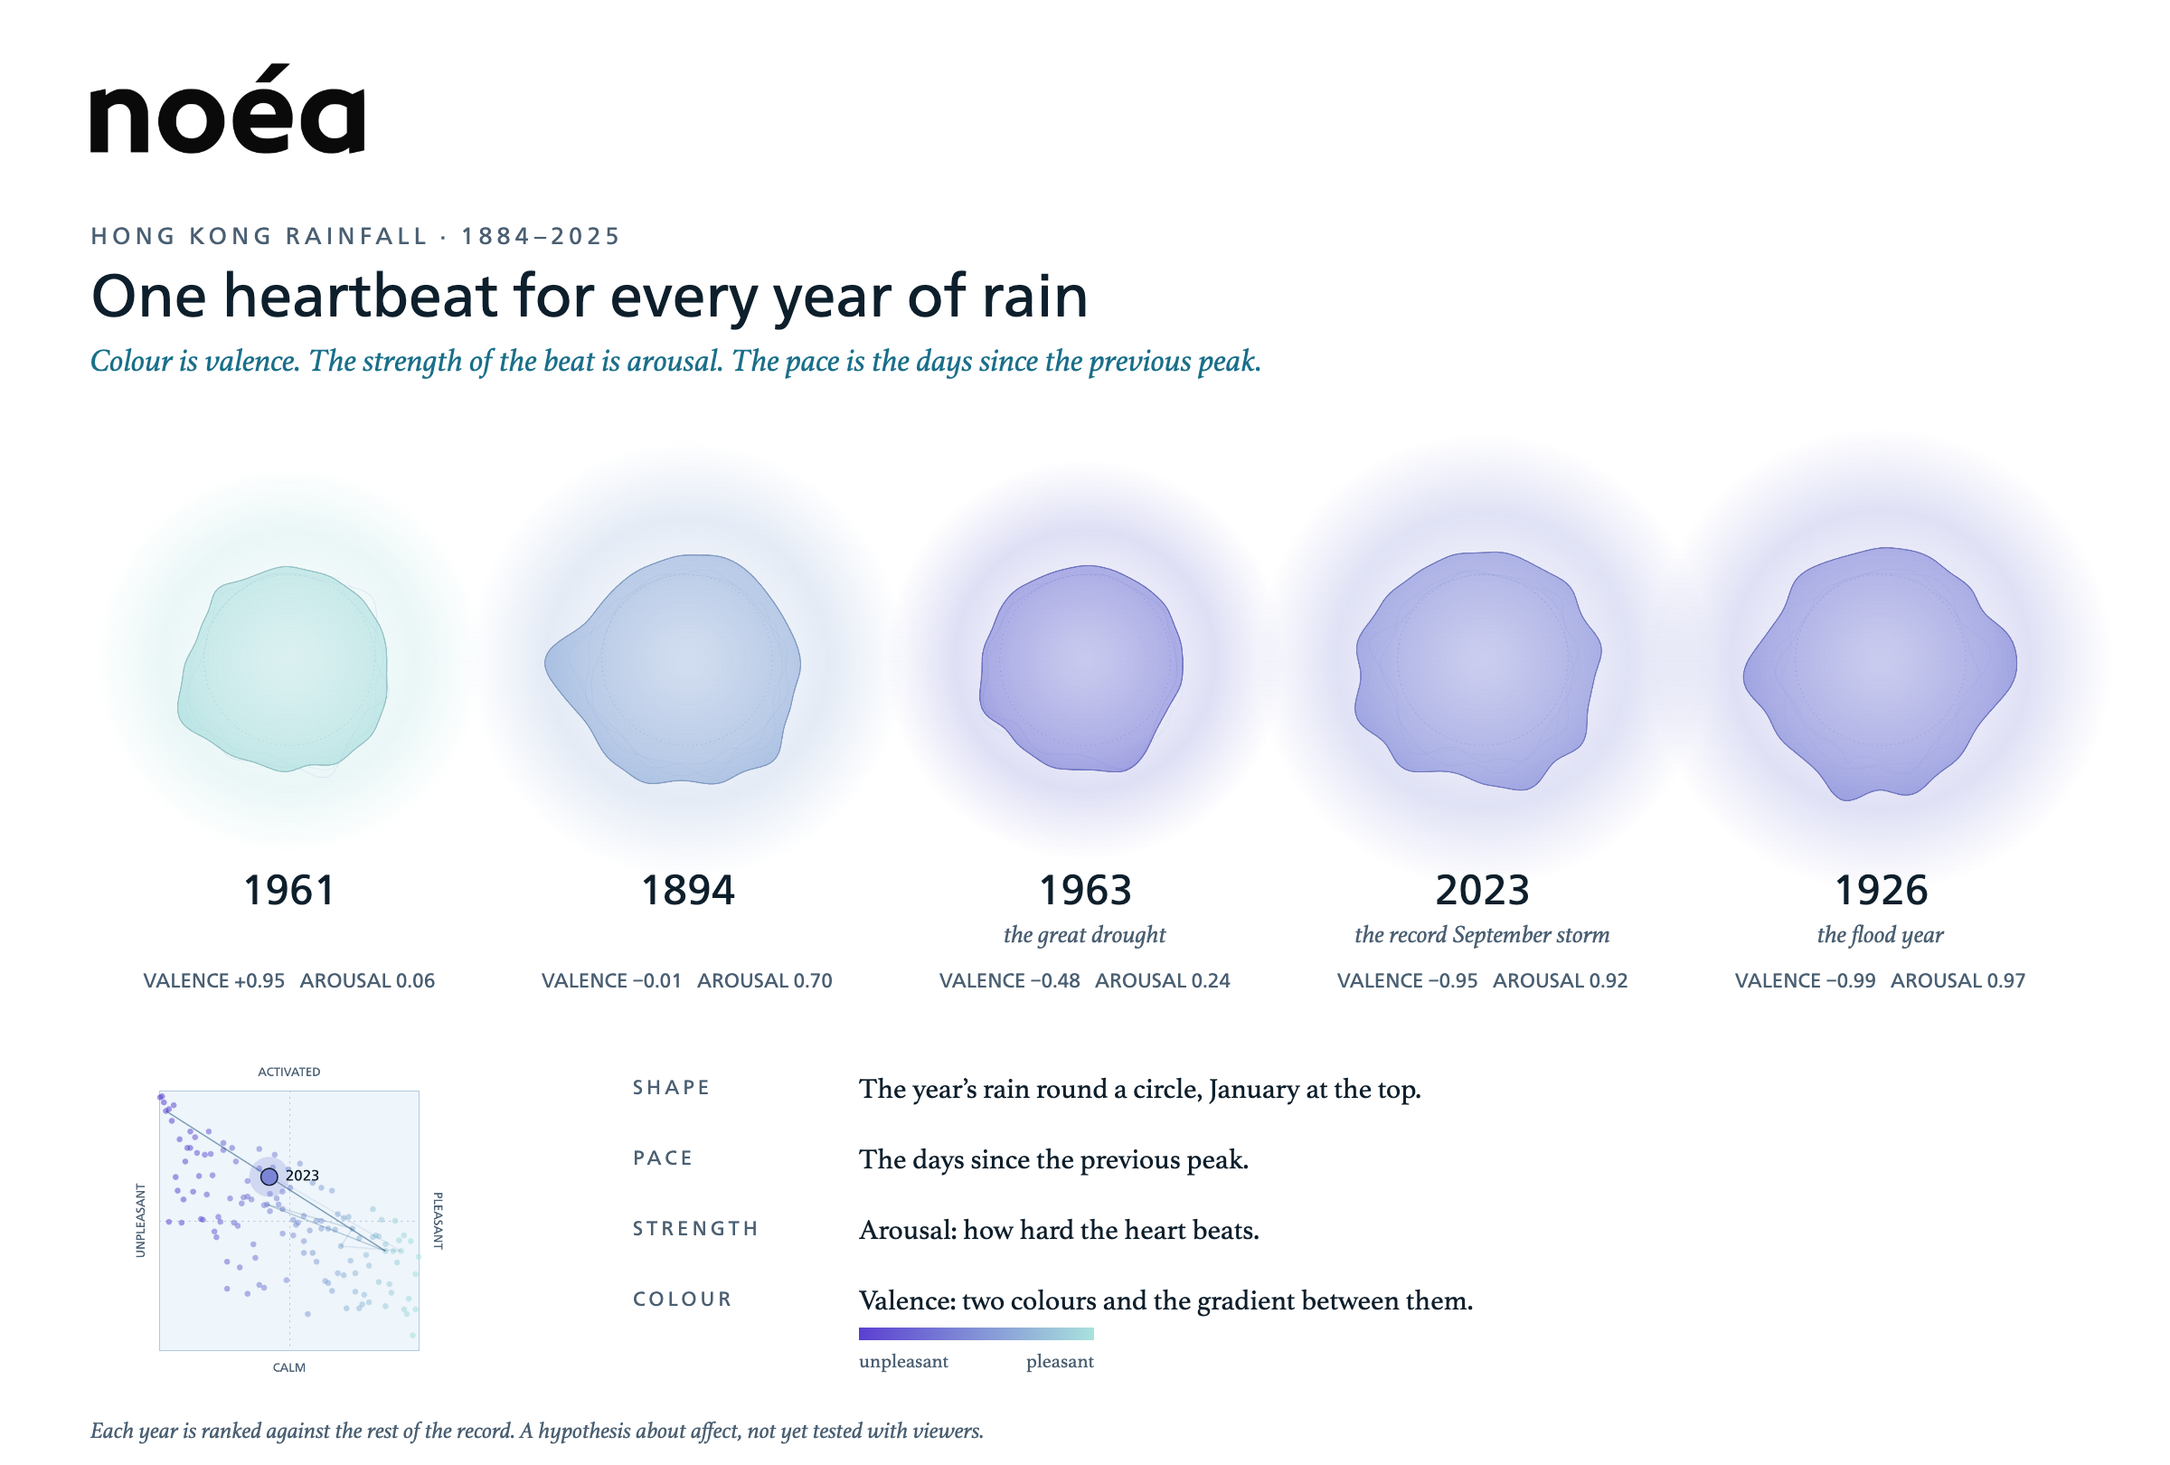
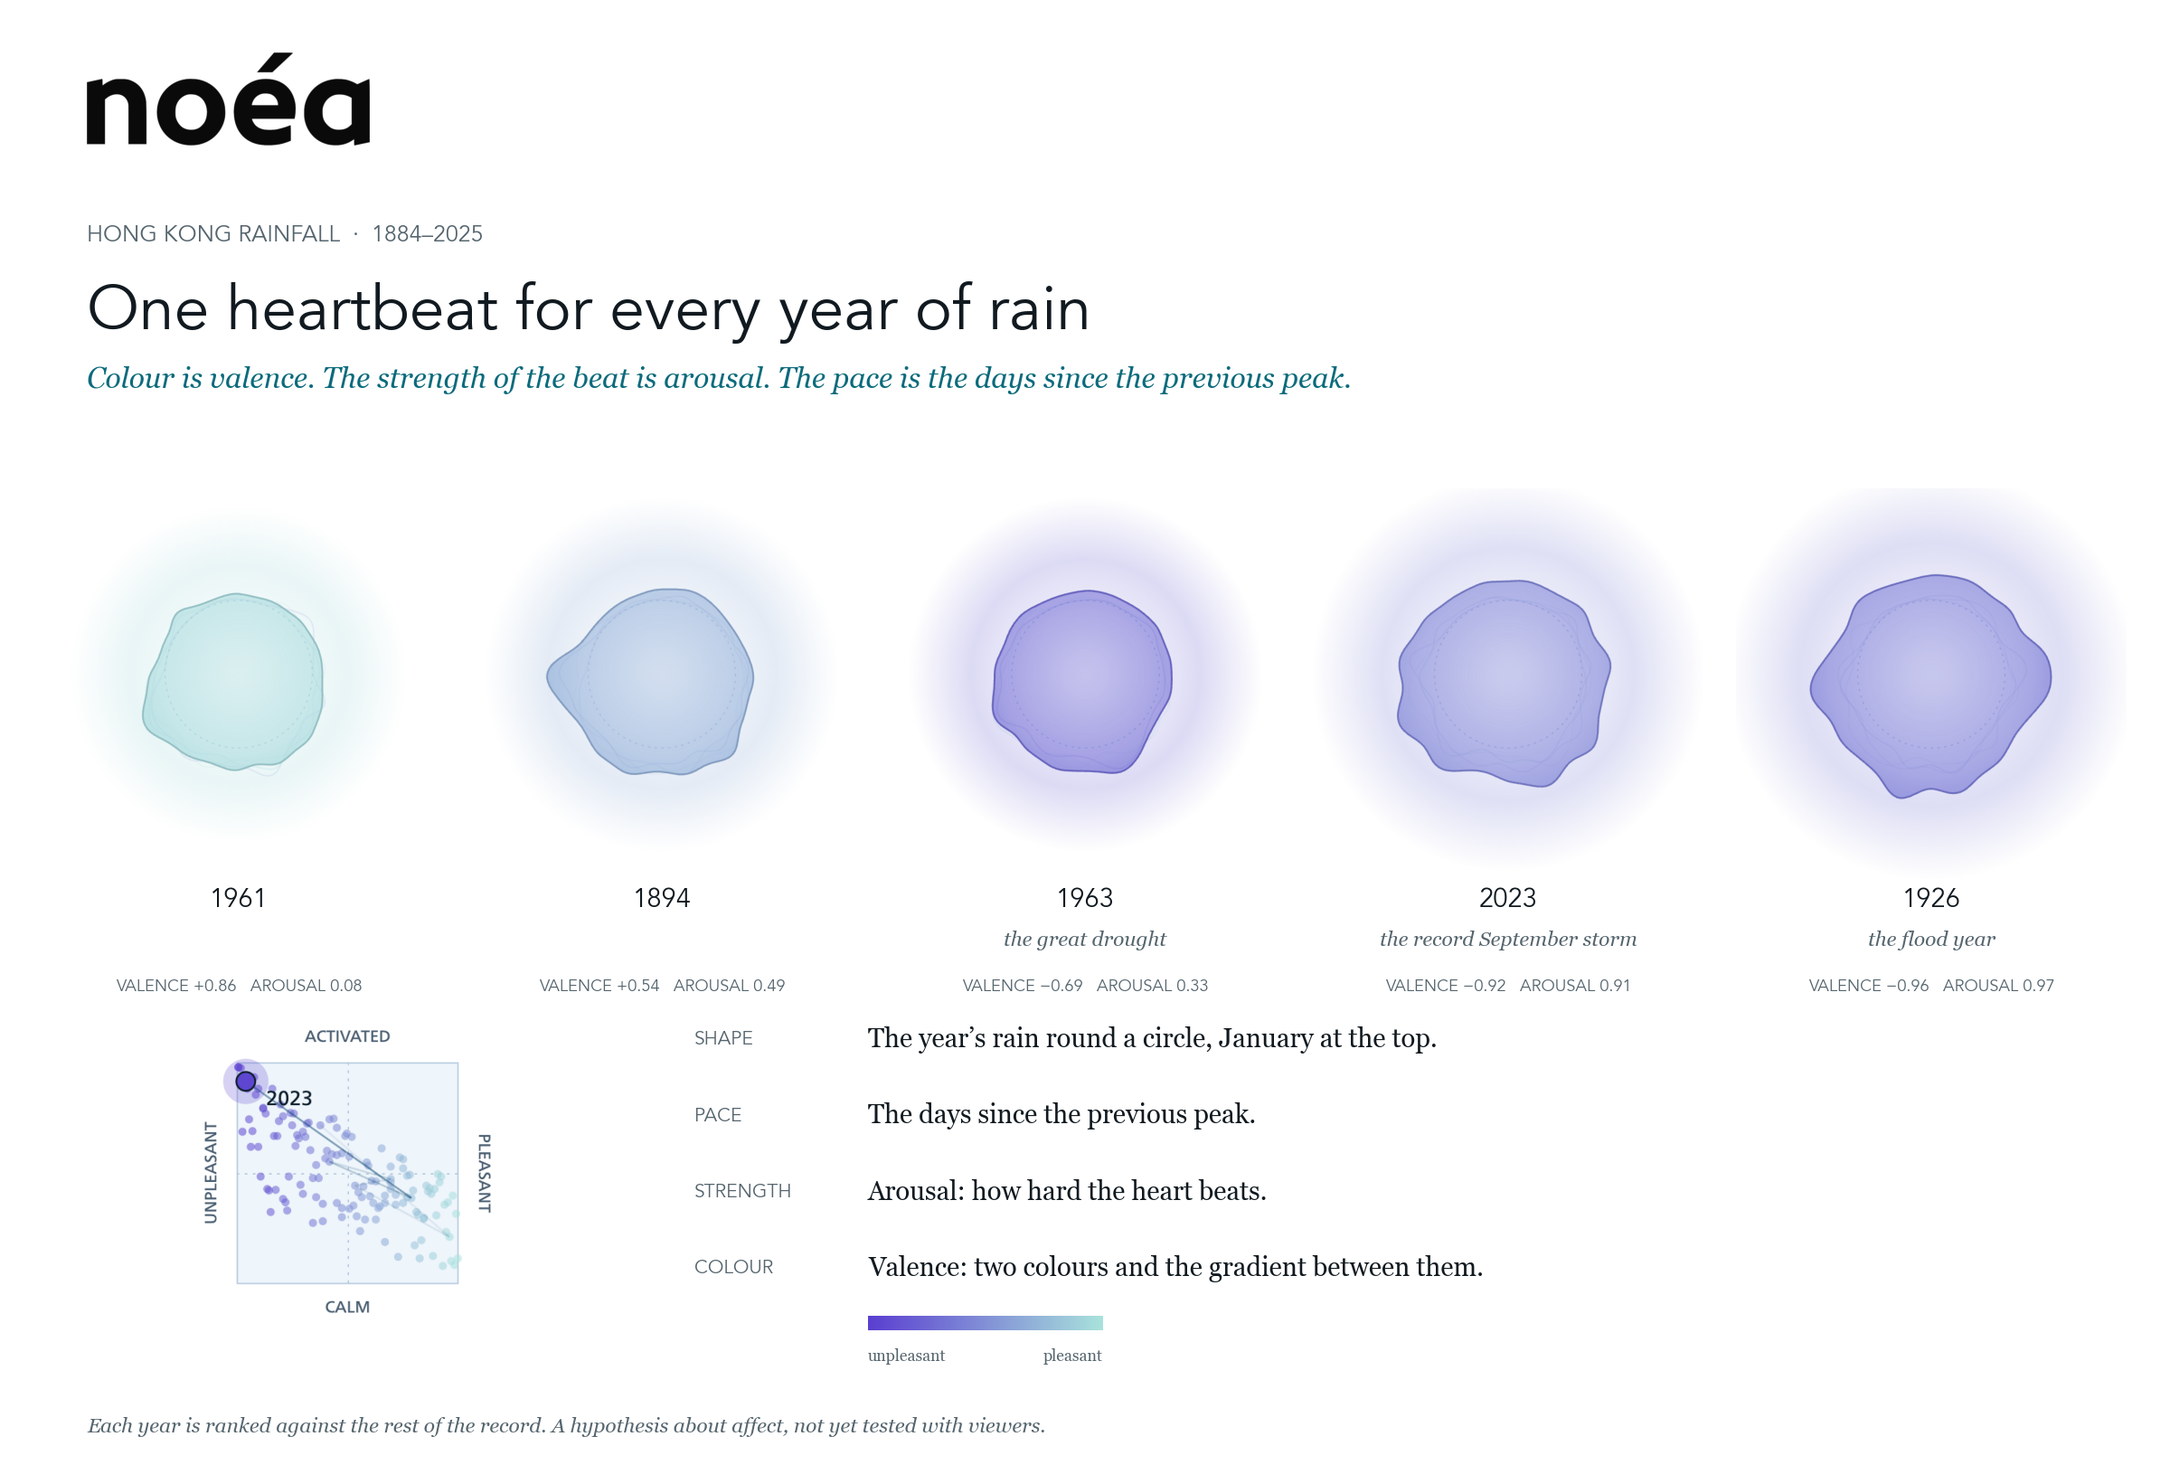
Issue 7 in the documentation lightbox; new figures and the cover study
Adds Issue 07, Technical Guide: Phase II (cover and PDF on the Webflow CDN) to the
lightbox and relates it to the three chapters; the credits line now mentions the
moving-window models. Adds the refreshed Hong Kong poster, map and blobs (current values),
the event-rank charts for the two models, the general HWI pipeline diagrams, the cover
studies, and the equations and code as text. Figures built from OCEau data and the draft
email are left out until the permission is written.

diff --git a/docs/explore/site.js b/docs/explore/site.js
@@ -5,9 +5,9 @@ window.NOEA_SITE = true;
 (function () {
   const CHAPTERS = [
     { key: "intro", label: "Introduction" },
-    { key: "atmosphere", file: "rainfall.json", label: "Hong Kong", kicker: "Climate Pulse · Atmosphere", name: "Hong Kong rainfall", issues: [3, 4] },
-    { key: "rivers", file: "river.json", label: "The Rhine and the Alps", kicker: "Climate Pulse · Rivers", name: "Rhine and alpine rivers", issues: [6] },
-    { key: "laire", file: "hwi.json", label: "L'Aire, Geneva", kicker: "Human-Water Interface (HWI)", name: "L'Aire, Geneva", issues: [4, 5],
+    { key: "atmosphere", file: "rainfall.json", label: "Hong Kong", kicker: "Climate Pulse · Atmosphere", name: "Hong Kong rainfall", issues: [3, 4, 7] },
+    { key: "rivers", file: "river.json", label: "The Rhine and the Alps", kicker: "Climate Pulse · Rivers", name: "Rhine and alpine rivers", issues: [6, 7] },
+    { key: "laire", file: "hwi.json", label: "L'Aire, Geneva", kicker: "Human-Water Interface (HWI)", name: "L'Aire, Geneva", issues: [4, 5, 7],
       missing: "L'Aire, Geneva uses validated data from the Office cantonal de l'eau (OCEau). It will appear here once it is released." },
   ];
   const CDN = "https://cdn.prod.website-files.com/63750b34ad85c65beae727c6/";
@@ -24,6 +24,8 @@ window.NOEA_SITE = true;
       text: "The XR prototype of Noéa, its debut at the Zurich AI Festival, the WMO collaboration, and the ethics of empathy and technology." },
     { n: 6, title: "River Anatomy", cover: "69eb3cda90e18b66b3b7be96_issue%206.jpg", pdf: "69eb3ce1dca9f12ea6ba2847_Issue%206.pdf",
       text: "Built around the Rhine: 70 years of discharge records, a four-station profile, and four frameworks that read a river as a continuous body." },
+    { n: 7, title: "Technical Guide, Phase II", cover: "6aeaa096771e6da2f6dbf636_issue%207-p-800.jpg", pdf: "6aea9ef654d0d7b1aabfbdca_issue%207.pdf",
+      text: "The code behind Noéa: its two layers, the yearly and moving-window models of Climate Pulse, and the Human-Water Interface pipeline, with what works and what is still open." },
   ];
   const LINKS = [
     ["Repository", "https://github.com/qintheory/noea", "The code behind the three prototypes, and the technical introduction."],
@@ -128,7 +130,7 @@ window.NOEA_SITE = true;
     } else body.innerHTML = '<div class="panel"><ul class="linklist">' + LINKS.map(l => '<li><a href="' + l[1] + '" target="_blank" rel="noopener">' + esc(l[0]) + ' ↗</a><span>' + esc(l[2]) + '</span></li>').join("") +
       '<li><a href="introduction.html" target="_blank" rel="noopener">Technical introduction ↗</a><span>The deck that explains the method, in its own page (arrow keys to move, N for notes).</span></li></ul>' +
       '<p class="credits">Data: Hong Kong Observatory (rainfall, 1884–2025); Global Runoff Data Centre and the Swiss Federal Office for the Environment (rivers); Office cantonal de l\'eau, Geneva (the L\'Aire gauges). ' +
-      'Method: an unsupervised model (PCA reconstruction error) learns what a typical year or day looks like for each record and scores how unusual each one is. No part of this has been tested with viewers yet.</p></div>';
+      'Method: an unsupervised model (PCA) learns what a typical year, stretch or day looks like for each record and scores how unusual each one is; Climate Pulse also reads each record in moving windows. No part of this has been tested with viewers yet.</p></div>';
   }
   function renderVideos(play) {
     if (!vid) vid = (VIDEOS.find(v => v.chapters.includes(current.key)) || VIDEOS[0]).id;

diff --git a/docs/source/explorers/site.js b/docs/source/explorers/site.js
@@ -5,9 +5,9 @@ window.NOEA_SITE = true;
 (function () {
   const CHAPTERS = [
     { key: "intro", label: "Introduction" },
-    { key: "atmosphere", file: "rainfall.json", label: "Hong Kong", kicker: "Climate Pulse · Atmosphere", name: "Hong Kong rainfall", issues: [3, 4] },
-    { key: "rivers", file: "river.json", label: "The Rhine and the Alps", kicker: "Climate Pulse · Rivers", name: "Rhine and alpine rivers", issues: [6] },
-    { key: "laire", file: "hwi.json", label: "L'Aire, Geneva", kicker: "Human-Water Interface (HWI)", name: "L'Aire, Geneva", issues: [4, 5],
+    { key: "atmosphere", file: "rainfall.json", label: "Hong Kong", kicker: "Climate Pulse · Atmosphere", name: "Hong Kong rainfall", issues: [3, 4, 7] },
+    { key: "rivers", file: "river.json", label: "The Rhine and the Alps", kicker: "Climate Pulse · Rivers", name: "Rhine and alpine rivers", issues: [6, 7] },
+    { key: "laire", file: "hwi.json", label: "L'Aire, Geneva", kicker: "Human-Water Interface (HWI)", name: "L'Aire, Geneva", issues: [4, 5, 7],
       missing: "L'Aire, Geneva uses validated data from the Office cantonal de l'eau (OCEau). It will appear here once it is released." },
   ];
   const CDN = "https://cdn.prod.website-files.com/63750b34ad85c65beae727c6/";
@@ -24,6 +24,8 @@ window.NOEA_SITE = true;
       text: "The XR prototype of Noéa, its debut at the Zurich AI Festival, the WMO collaboration, and the ethics of empathy and technology." },
     { n: 6, title: "River Anatomy", cover: "69eb3cda90e18b66b3b7be96_issue%206.jpg", pdf: "69eb3ce1dca9f12ea6ba2847_Issue%206.pdf",
       text: "Built around the Rhine: 70 years of discharge records, a four-station profile, and four frameworks that read a river as a continuous body." },
+    { n: 7, title: "Technical Guide, Phase II", cover: "6aeaa096771e6da2f6dbf636_issue%207-p-800.jpg", pdf: "6aea9ef654d0d7b1aabfbdca_issue%207.pdf",
+      text: "The code behind Noéa: its two layers, the yearly and moving-window models of Climate Pulse, and the Human-Water Interface pipeline, with what works and what is still open." },
   ];
   const LINKS = [
     ["Repository", "https://github.com/qintheory/noea", "The code behind the three prototypes, and the technical introduction."],
@@ -128,7 +130,7 @@ window.NOEA_SITE = true;
     } else body.innerHTML = '<div class="panel"><ul class="linklist">' + LINKS.map(l => '<li><a href="' + l[1] + '" target="_blank" rel="noopener">' + esc(l[0]) + ' ↗</a><span>' + esc(l[2]) + '</span></li>').join("") +
       '<li><a href="introduction.html" target="_blank" rel="noopener">Technical introduction ↗</a><span>The deck that explains the method, in its own page (arrow keys to move, N for notes).</span></li></ul>' +
       '<p class="credits">Data: Hong Kong Observatory (rainfall, 1884–2025); Global Runoff Data Centre and the Swiss Federal Office for the Environment (rivers); Office cantonal de l\'eau, Geneva (the L\'Aire gauges). ' +
-      'Method: an unsupervised model (PCA reconstruction error) learns what a typical year or day looks like for each record and scores how unusual each one is. No part of this has been tested with viewers yet.</p></div>';
+      'Method: an unsupervised model (PCA) learns what a typical year, stretch or day looks like for each record and scores how unusual each one is; Climate Pulse also reads each record in moving windows. No part of this has been tested with viewers yet.</p></div>';
   }
   function renderVideos(play) {
     if (!vid) vid = (VIDEOS.find(v => v.chapters.includes(current.key)) || VIDEOS[0]).id;

diff --git a/docs/cover-code-and-equations.md b/docs/cover-code-and-equations.md
@@ -1,0 +1,179 @@
+# The equations and the code behind the models
+
+Text only, for the page. The code is quoted from the repository (file named above each block); lines marked `# ...` were trimmed. The equations are the same operations written as maths.
+
+---
+
+## 1. Equations
+
+### Yearly model (Hong Kong rainfall)
+
+| Step | Equation |
+|---|---|
+| Standardise the six yearly features | z = (x − μ) / σ |
+| Covariance and its eigenvectors (PCA) | C = ZᵀZ / n,   C vⱼ = λⱼ vⱼ |
+| The same by singular values | Z = U Σ Vᵀ,   λⱼ = Σⱼ² / n |
+| Rebuild each year from k = 2 components | ẑ = Z Vₖ Vₖᵀ |
+| Reconstruction error (the anomaly) | e = ‖ z − ẑ ‖² = Σᵢ (zᵢ − ẑᵢ)² |
+| Rescale to 0–1 across the fitted years | s = (e − e_min) / (e_max − e_min) |
+| Return period of the yearly peak (Gumbel) | P(R′ ≥ r) = 1 − exp( −exp( −(r − μ) / β ) ),   T = 1 / P |
+
+### Moving-window model
+
+| Step | Equation |
+|---|---|
+| Rank a measure among windows ending at the same time of year (±15 days) | pᵢ = ( rank(xᵢ) − ½ ) / n |
+| Turn the rank into a bounded score | uᵢ = Φ⁻¹(pᵢ),  clipped to [−3.5, 3.5] |
+| Centre the scores | C = U − ū |
+| Components that keep 80% of the variance | k = min { k : Σⱼ≤ₖ λⱼ / Σⱼ λⱼ ≥ 0.80 } |
+| Coordinates in the kept components | t = C Vₖ |
+| Distance inside the kept components (Mahalanobis) | d² = Σⱼ≤ₖ tⱼ² / λⱼ |
+| Distance off the components (reconstruction) | e = ‖ C − t Vₖᵀ ‖² |
+| Rank of a window among all N windows | r = ( rank(d²) − ½ ) / N |
+| Rarity, "one window in …" | 1 / (1 − r),   u = −log₁₀(1 − r) |
+| Score rule at 30 days | score = max( rank(d²), rank(e) ) |
+| Score rule at 365 days | score = rank(d²) |
+
+### Checking against documented events
+
+| Step | Equation |
+|---|---|
+| How an event ranks among spans of the same length | percentile = share of other spans whose highest score is below the event's highest score |
+| Chance | 0.5 |
+
+### Valence and arousal (Hong Kong)
+
+| Step | Equation |
+|---|---|
+| Two factors from a varimax-rotated PCA | storminess, wetness |
+| Departure from a normal year | departure = √( max(storminess, 0)² + wetness² ) |
+| Percentile rank among the n fitted years | pct(v) = ( rank(v) − ½ ) / n |
+| Arousal | A = ½ ( pct(storminess) + pct(anomaly) ) |
+| Valence | V = 1 − 2 · pct( ½ ( pct(departure) + pct(anomaly) ) ) |
+
+### Human-Water Interface (L'Aire)
+
+| Step | Equation |
+|---|---|
+| Seasonal norm for a calendar day | m(d) = median of log₁₀ Q over the fitting years, pooling days within ±15 of d |
+| Seasonal spread | σ(d) = max( stdev of that pool, 0.05 ) |
+| Distance from the norm | a = log₁₀ Q − m(d) |
+| In units of the season's spread | z = a / σ(d) |
+| Day score | PCA with k = 3 components on seven daily features; e = ‖ z − ẑ ‖² |
+| Calibration check | share of held-out days with e above the training 95th percentile ≈ 0.05 |
+
+---
+
+## 2. Code
+
+### The yearly model: PCA and the reconstruction error — `noea/climate_pulse/rainfall/anomaly.py`
+
+```python
+X_raw = np.array([_feature_row(yp) for yp in complete_years])
+
+scaler = StandardScaler().fit(X_raw)
+X = scaler.transform(X_raw)
+
+pca = PCA(n_components=n_components).fit(X)
+X_reconstructed = pca.inverse_transform(pca.transform(X))
+errors = np.sum((X - X_reconstructed) ** 2, axis=1)
+```
+
+### Scoring a year the model has never seen — same file
+
+```python
+x = self.scaler.transform([_feature_row(yp)])
+reduced = self.pca.transform(x)
+reconstructed = self.pca.inverse_transform(reduced)
+error = float(np.sum((x - reconstructed) ** 2))
+return max(0.0, min(1.0, (error - self.score_min) / (self.score_max - self.score_min)))
+```
+
+### The return period of the peak — `noea/climate_pulse/rainfall/frameworks.py`
+
+```python
+loc, scale = gumbel_r.fit(r_vals)
+exceedance_prob = gumbel_r.sf(r, loc=loc, scale=scale)     # P(R' >= r)
+out[y] = min(1.0 / exceedance_prob, 1e5) if exceedance_prob > 0 else 1e5
+```
+
+### The moving-window model — `noea/climate_pulse/windows.py`
+
+```python
+def seasonal_probit(ends, F):
+    # rank each measure among windows that end at the same time of year (+-15 days),
+    # then turn the rank into a bounded probit: a measure that is nearly constant
+    # in a season cannot blow up
+    r = (rankdata(F[near, j]) - 0.5) / len(near)
+    Z[here, j] = np.clip(norm.ppf(r[at]), -3.5, 3.5)
+
+Z = seasonal_probit(ends, F)
+C = Z - Z.mean(0)
+_, S, Vt = np.linalg.svd(C, full_matrices=False)
+var = S ** 2 / len(C)
+k = int(np.searchsorted(np.cumsum(var) / var.sum(), VARIANCE_KEPT) + 1)    # VARIANCE_KEPT = 0.80
+scores = C @ Vt[:k].T
+maha = ((scores ** 2) / var[:k]).sum(1)
+recon = ((C - scores @ Vt[:k]) ** 2).sum(1)
+rank = lambda v: (rankdata(v) - 0.5) / len(v)
+score = rank(maha) if scoring == "mahalanobis" else np.maximum(rank(maha), rank(recon))
+```
+
+### The seasonal norm — `noea/human_water_interface/baselines.py`
+
+```python
+for d, v in zip(ts.dates, ts.values):
+    if d.year in self.fit_years and v > 0:
+        by_idx[day_index(d)].append(math.log10(v))
+for i in range(1, 367):
+    pool = []
+    for off in range(-self.window, self.window + 1):
+        pool += by_idx[(i - 1 + off) % 366 + 1]
+    self.median[i] = statistics.median(pool)
+    self.spread[i] = max(statistics.pstdev(pool), 0.05)
+
+def anomaly(self, d, value):
+    return math.log10(max(value, 1e-6)) - self.median[day_index(d)]
+
+def z(self, d, value):
+    return self.anomaly(d, value) / self.spread[day_index(d)]
+```
+
+### Valence and arousal — `noea/climate_pulse/rainfall/affect.py`
+
+```python
+pct = lambda v: (rankdata(v) - 0.5) / n
+surprise = np.array([anomaly.normalized(y.year) for y in years])
+departure = np.sqrt(np.maximum(storminess, 0) ** 2 + wetness ** 2)
+arousal = (pct(storminess) + pct(surprise)) / 2
+valence = 1 - 2 * pct((pct(departure) + pct(surprise)) / 2)
+```
+
+---
+
+## 3. Short versions for the cover
+
+The yearly model in four lines:
+
+```python
+X = StandardScaler().fit_transform(X_raw)
+pca = PCA(n_components=2).fit(X)
+X_hat = pca.inverse_transform(pca.transform(X))
+errors = np.sum((X - X_hat) ** 2, axis=1)
+```
+
+The error as one equation:
+
+```
+e = || z - z V Vᵀ ||²
+```
+
+The moving-window model in five lines:
+
+```python
+_, S, Vt = np.linalg.svd(C, full_matrices=False)
+var = S ** 2 / len(C)
+k = int(np.searchsorted(np.cumsum(var) / var.sum(), 0.80) + 1)
+scores = C @ Vt[:k].T
+maha = ((scores ** 2) / var[:k]).sum(1)
+```

diff --git a/docs/river-reference-events.md b/docs/river-reference-events.md
@@ -1,6 +1,6 @@
 # Rhine and alpine reference events
 
-Documented floods and droughts used to CHECK the river models, never to fit them. Sixteen events at eight stations, in
+Documented floods and droughts used to CHECK the river models, never to fit them. Sixteen events at seven stations (Basel has none), in
 `noea/climate_pulse/river/events.py`. Each is labelled "tune" or "test" (alternating down the floods and down the
 droughts), fixed in advance. The rolling model's score rule was chosen on the "tune" half only and reported on the "test"
 half; with one to five events per window length in each half this is a rough check, not a validation.
